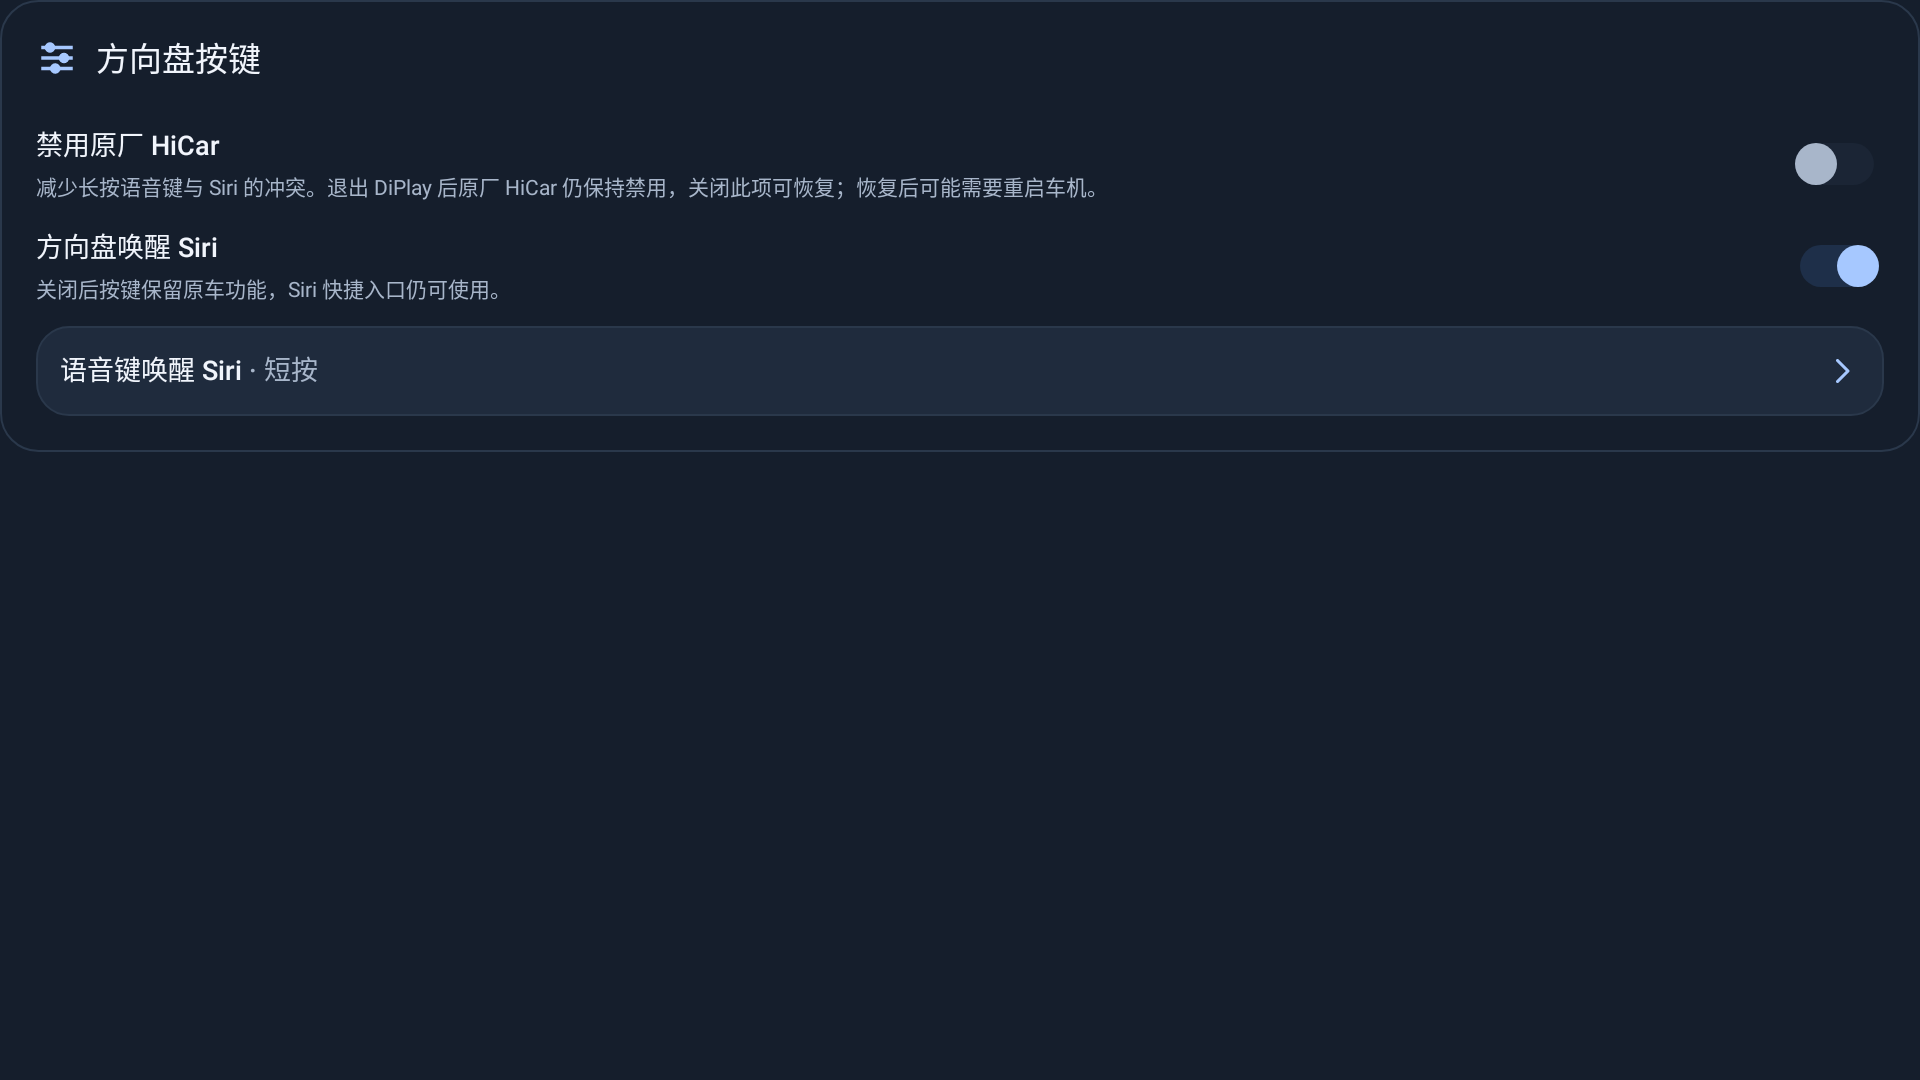
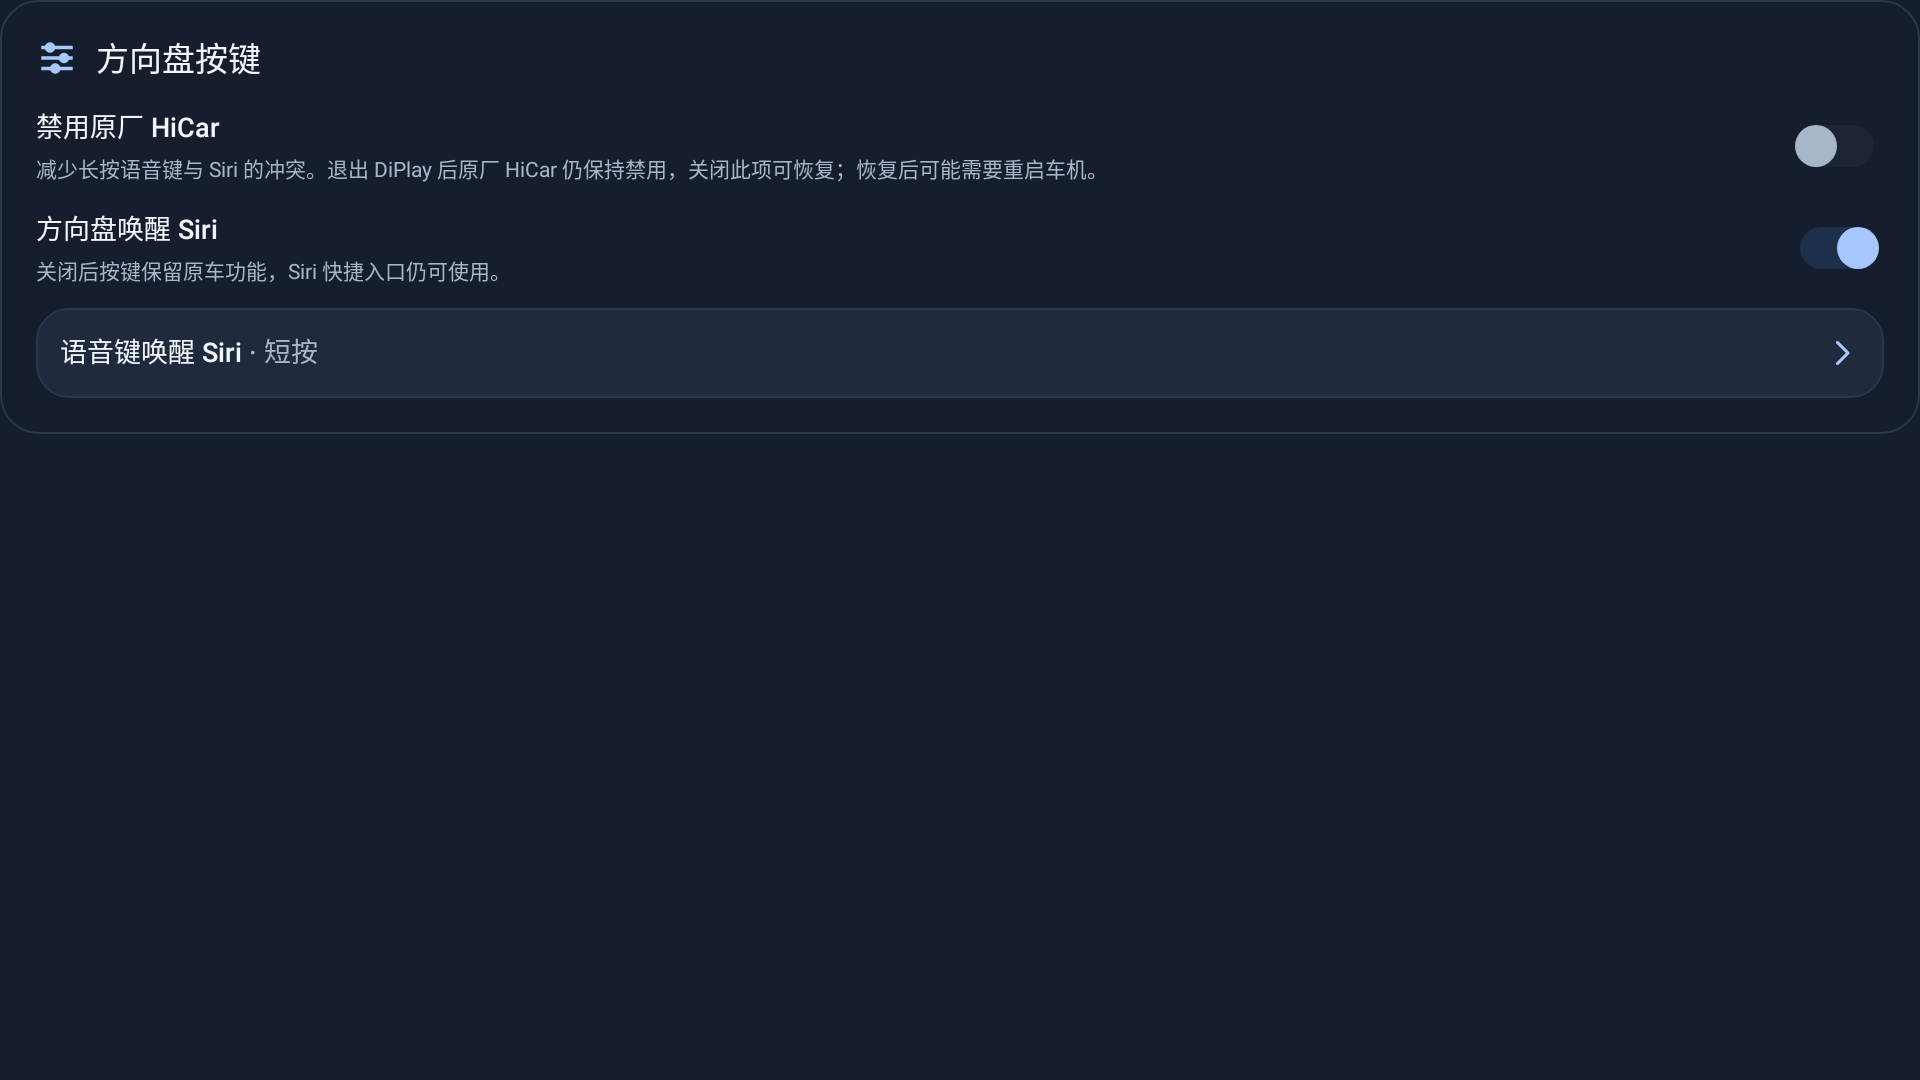
fix: normalize spacing of settings rows built after a background query
settingsQuery fills its group after the card's normalizeSpacing pass, so
the HiCar and MTK decoder rows kept the switch row's own vertical padding
and had no CONTROL_GAP_DP below them; the 1920×1080 screenshot showed the
HiCar row sitting closer to the Siri row than the card's other controls.
Normalize the group once it is built, as nested groups already are, and
assert that the background-built row shares its siblings' spacing.

diff --git a/common/src/test/java/com/shilapi/xcertplay/FactoryHicarSettingsTest.kt b/common/src/test/java/com/shilapi/xcertplay/FactoryHicarSettingsTest.kt
@@ -147,6 +147,18 @@ class FactoryHicarSettingsTest {
         assertFalse(EcarxHicarControl.state(context)!!.disabled)
     }
 
+    @Test fun backgroundBuiltHicarRowKeepsTheCardSpacing() {
+        val root = settings()
+        val hicar = control(root).parent as View
+        val siri = views(root).filterIsInstance<Switch>().single {
+            it.contentDescription == activity.getString(R.string.wheel_siri_key)
+        }.parent as View
+        assertEquals(0, hicar.paddingTop)
+        assertEquals(0, hicar.paddingBottom)
+        assertEquals((siri.layoutParams as LinearLayout.LayoutParams).bottomMargin,
+            (hicar.layoutParams as LinearLayout.LayoutParams).bottomMargin)
+    }
+
     @Test fun currentHeadUnitScreenFitsHicarControl() {
         val root = settings().apply { setBackgroundColor(DiPlayPalette.DARK.surface) }
         root.measure(View.MeasureSpec.makeMeasureSpec(1920, View.MeasureSpec.EXACTLY),

diff --git a/common/src/main/java/com/shilapi/xcertplay/DiPlayActivity.kt b/common/src/main/java/com/shilapi/xcertplay/DiPlayActivity.kt
@@ -1559,6 +1559,8 @@ class DiPlayActivity : ComponentActivity(), AppAppearanceOwner {
             try {
                 searchIndexSink = titles
                 build(target, value)
+                // The card was normalized before this group existed; give its rows the same gaps.
+                normalizeSpacing(target, isCard = false)
             } finally {
                 searchIndexSink = previous
             }
